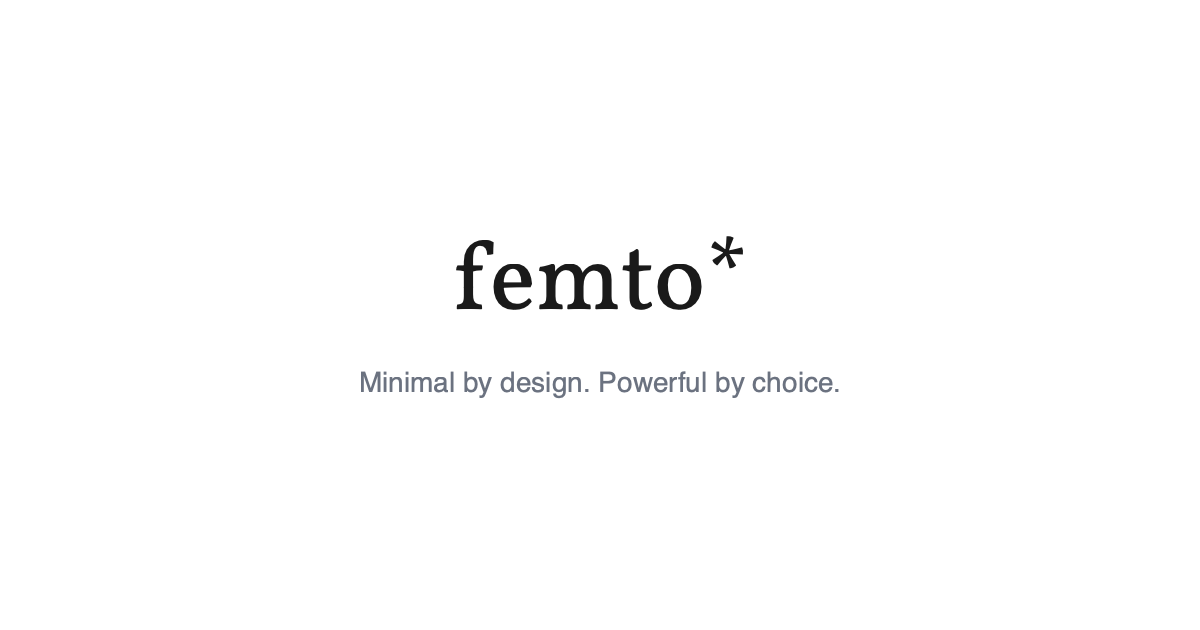
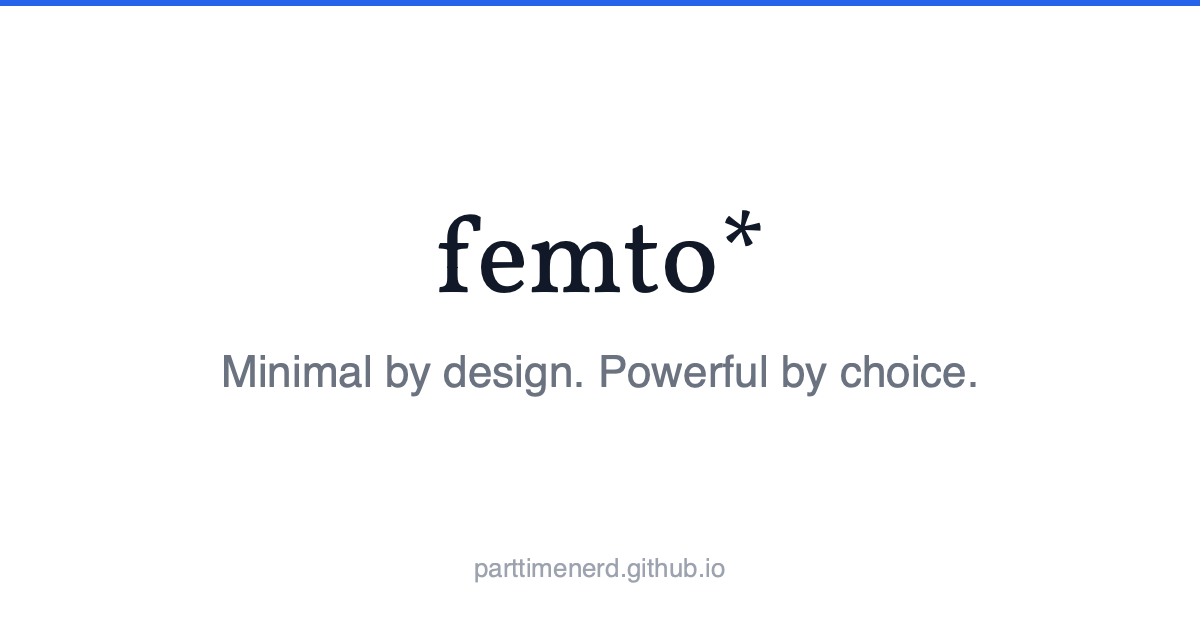
fix: scroll offset, og-image subtitle size, nav highlight
Scroll fix:
- Set scroll-padding-top: 100px statically on <html> so the browser's
  initial hash jump already clears both sticky navbars (top nav ~49px +
  tool nav ~45px = ~94px); JS updates it dynamically on resize
- Set scroll-margin-top: 100px inline on each section so scrollIntoView
  also respects the offset
- Replace scrollIntoView() on nav links (which could scroll the page)
  with direct scrollLeft arithmetic on the tool-nav container

og-image:
- Subtitle font size 28 → 44px (much more readable at 1200×630)
- Title font size 96 → 108px
- Add blue top accent bar and "parttimenerd.github.io" byline
- Embed Inter 600 weight for the byline
- Regenerate all four og-images

diff --git a/themes/projects-theme/assets/js/main.js b/themes/projects-theme/assets/js/main.js
@@ -18,10 +18,24 @@ Alpine.start();
 document.addEventListener('DOMContentLoaded', () => {
   hljs.highlightAll();
 
-  const nav = document.getElementById('tool-nav');
-  if (!nav) return;
+  // Measure sticky nav stack and set scroll-padding-top dynamically so hash
+  // links always land below both the top nav and the tool nav.
+  const topNav  = document.querySelector('header');
+  const toolNav = document.getElementById('tool-nav');
+  const updateScrollPadding = () => {
+    const h = (topNav?.offsetHeight ?? 0) + (toolNav?.offsetHeight ?? 0);
+    document.documentElement.style.scrollPaddingTop = h + 'px';
+    // Keep scroll-margin-top in sync on all anchored sections
+    document.querySelectorAll('section[id]').forEach(s => {
+      s.style.scrollMarginTop = h + 'px';
+    });
+  };
+  updateScrollPadding();
+  window.addEventListener('resize', updateScrollPadding);
 
-  const links = Array.from(nav.querySelectorAll('a[data-id]'));
+  if (!toolNav) return;
+
+  const links = Array.from(toolNav.querySelectorAll('a[data-id]'));
   if (!links.length) return;
 
   const setActive = (id) => {
@@ -35,12 +49,27 @@ document.addEventListener('DOMContentLoaded', () => {
     });
   };
 
+  // Scroll the tool nav bar horizontally to keep the active link visible.
+  // Use scrollLeft directly — scrollIntoView on nav items can scroll the page.
+  const scrollNavToActive = (id) => {
+    const a = toolNav.querySelector(`a[data-id="${id}"]`);
+    if (!a) return;
+    const navRect  = toolNav.getBoundingClientRect();
+    const linkRect = a.getBoundingClientRect();
+    const leftEdge  = linkRect.left  - navRect.left  + toolNav.scrollLeft;
+    const rightEdge = linkRect.right - navRect.left  + toolNav.scrollLeft;
+    if (rightEdge > toolNav.scrollLeft + navRect.width) {
+      toolNav.scrollLeft = rightEdge - navRect.width + 16;
+    } else if (leftEdge < toolNav.scrollLeft) {
+      toolNav.scrollLeft = leftEdge - 16;
+    }
+  };
+
   const sections = links.map(a => document.getElementById(a.dataset.id)).filter(Boolean);
   const visible = new Set();
 
   const pick = () => {
     if (!visible.size) { setActive(null); return; }
-    // Highlight the topmost visible section
     let best = null;
     for (const s of visible) {
       if (!best || s.offsetTop < best.offsetTop) best = s;
@@ -48,20 +77,14 @@ document.addEventListener('DOMContentLoaded', () => {
     setActive(best.id);
   };
 
-  // Scroll into nav view when active changes (for long nav bars)
-  const scrollNavToActive = (id) => {
-    const a = nav.querySelector(`a[data-id="${id}"]`);
-    if (a) a.scrollIntoView({ block: 'nearest', inline: 'nearest', behavior: 'smooth' });
-  };
-
   const observer = new IntersectionObserver((entries) => {
     for (const entry of entries) {
       if (entry.isIntersecting) visible.add(entry.target);
       else visible.delete(entry.target);
     }
-    const prev = nav.querySelector('a.text-blue-700')?.dataset.id;
+    const prev = toolNav.querySelector('a.text-blue-700')?.dataset.id;
     pick();
-    const curr = nav.querySelector('a.text-blue-700')?.dataset.id;
+    const curr = toolNav.querySelector('a.text-blue-700')?.dataset.id;
     if (curr && curr !== prev) scrollNavToActive(curr);
   }, { rootMargin: '0px 0px -60% 0px', threshold: 0 });
 

diff --git a/themes/projects-theme/layouts/collection/list.html b/themes/projects-theme/layouts/collection/list.html
@@ -86,7 +86,7 @@
     {{ end }}
     {{ $lastGroup3 = .group }}
 
-  <section id="{{ .id }}" class="scroll-mt-24 mt-16 pt-8 border-t border-gray-100 first:border-t-0 first:pt-0 first:mt-0">
+  <section id="{{ .id }}" style="scroll-margin-top: 100px" class="mt-16 pt-8 border-t border-gray-100 first:border-t-0 first:pt-0 first:mt-0">
     <div class="flex flex-wrap items-center gap-3 mb-2">
       <h2 class="font-['Vollkorn'] text-2xl font-bold text-gray-900">{{ .id }}</h2>
       <span class="badge badge-{{ .tag }}" title="{{ if eq .tag `ready` }}Production-ready: actively maintained, used in real projects{{ else if eq .tag `experimental` }}Experimental: works but API or behaviour may change{{ else if eq .tag `poc` }}Proof of concept: demonstrates the idea, not production-ready{{ else if eq .tag `demo` }}Demo: built to show off an idea or for a talk, not intended for production use{{ end }}">{{ .tag }}</span>

diff --git a/themes/projects-theme/layouts/baseof.html b/themes/projects-theme/layouts/baseof.html
@@ -2,7 +2,7 @@
 {{ $navH := site.Params.nav_height_px | default 48 }}
 {{ $toolNavH := site.Params.tool_nav_height_px | default 40 }}
 {{ $scrollPad := add $navH $toolNavH }}
-<html lang="en" style="scroll-padding-top: {{ $scrollPad }}px">
+<html lang="en" style="scroll-padding-top: 100px">
 <head>
   <meta charset="UTF-8">
   <meta name="viewport" content="width=device-width, initial-scale=1.0">

diff --git a/scripts/gen_og_image.py b/scripts/gen_og_image.py
@@ -55,7 +55,12 @@ def b64(data: bytes) -> str:
 
 def make_svg(og_title: str, og_subtitle: str) -> str:
     vollkorn = fetch_font_bytes("Vollkorn", 700)
-    inter = fetch_font_bytes("Inter", 400)
+    inter    = fetch_font_bytes("Inter", 400)
+    inter600 = fetch_font_bytes("Inter", 600)
+
+    title_y    = HEIGHT // 2 - 50
+    subtitle_y = HEIGHT // 2 + 60
+    byline_y   = HEIGHT - 60
 
     return f"""<?xml version="1.0" encoding="UTF-8"?>
 <svg width="{WIDTH}" height="{HEIGHT}" xmlns="http://www.w3.org/2000/svg">
@@ -71,18 +76,34 @@ def make_svg(og_title: str, og_subtitle: str) -> str:
         font-weight: 400;
         src: url('data:font/truetype;base64,{b64(inter)}') format('truetype');
       }}
+      @font-face {{
+        font-family: 'Inter';
+        font-weight: 600;
+        src: url('data:font/truetype;base64,{b64(inter600)}') format('truetype');
+      }}
     </style>
   </defs>
+  <!-- Background -->
   <rect width="{WIDTH}" height="{HEIGHT}" fill="#ffffff"/>
-  <text x="{WIDTH // 2}" y="{HEIGHT // 2 - 30}"
-        font-family="Vollkorn" font-weight="700" font-size="96"
-        fill="#1a1a1a" text-anchor="middle" dominant-baseline="middle">
+  <!-- Top accent bar -->
+  <rect x="0" y="0" width="{WIDTH}" height="6" fill="#2563eb"/>
+  <!-- Title -->
+  <text x="{WIDTH // 2}" y="{title_y}"
+        font-family="Vollkorn" font-weight="700" font-size="108"
+        fill="#111827" text-anchor="middle" dominant-baseline="middle">
     {og_title}
   </text>
-  <text x="{WIDTH // 2}" y="{HEIGHT // 2 + 70}"
-        font-family="Inter" font-weight="400" font-size="28"
+  <!-- Subtitle -->
+  <text x="{WIDTH // 2}" y="{subtitle_y}"
+        font-family="Inter" font-weight="400" font-size="44"
         fill="#6b7280" text-anchor="middle" dominant-baseline="middle">
     {og_subtitle}
+  </text>
+  <!-- Byline -->
+  <text x="{WIDTH // 2}" y="{byline_y}"
+        font-family="Inter" font-weight="600" font-size="26"
+        fill="#9ca3af" text-anchor="middle" dominant-baseline="middle">
+    parttimenerd.github.io
   </text>
 </svg>"""
 
